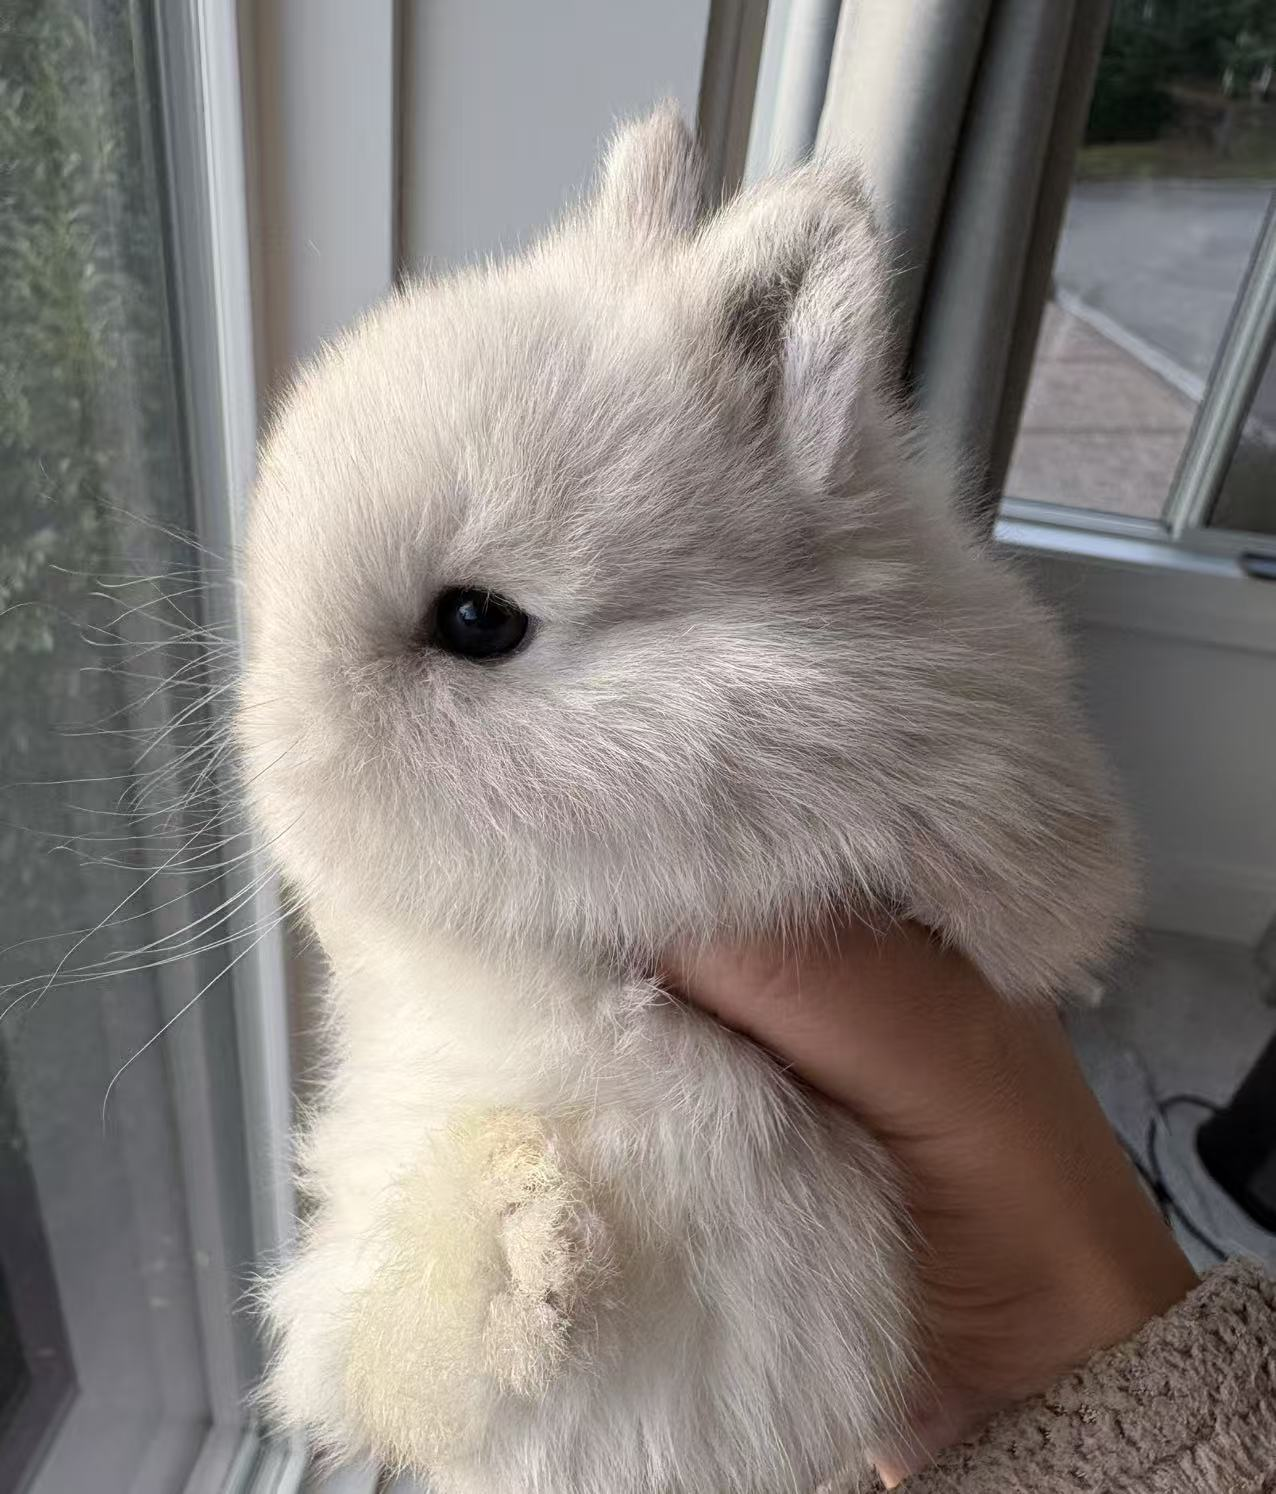
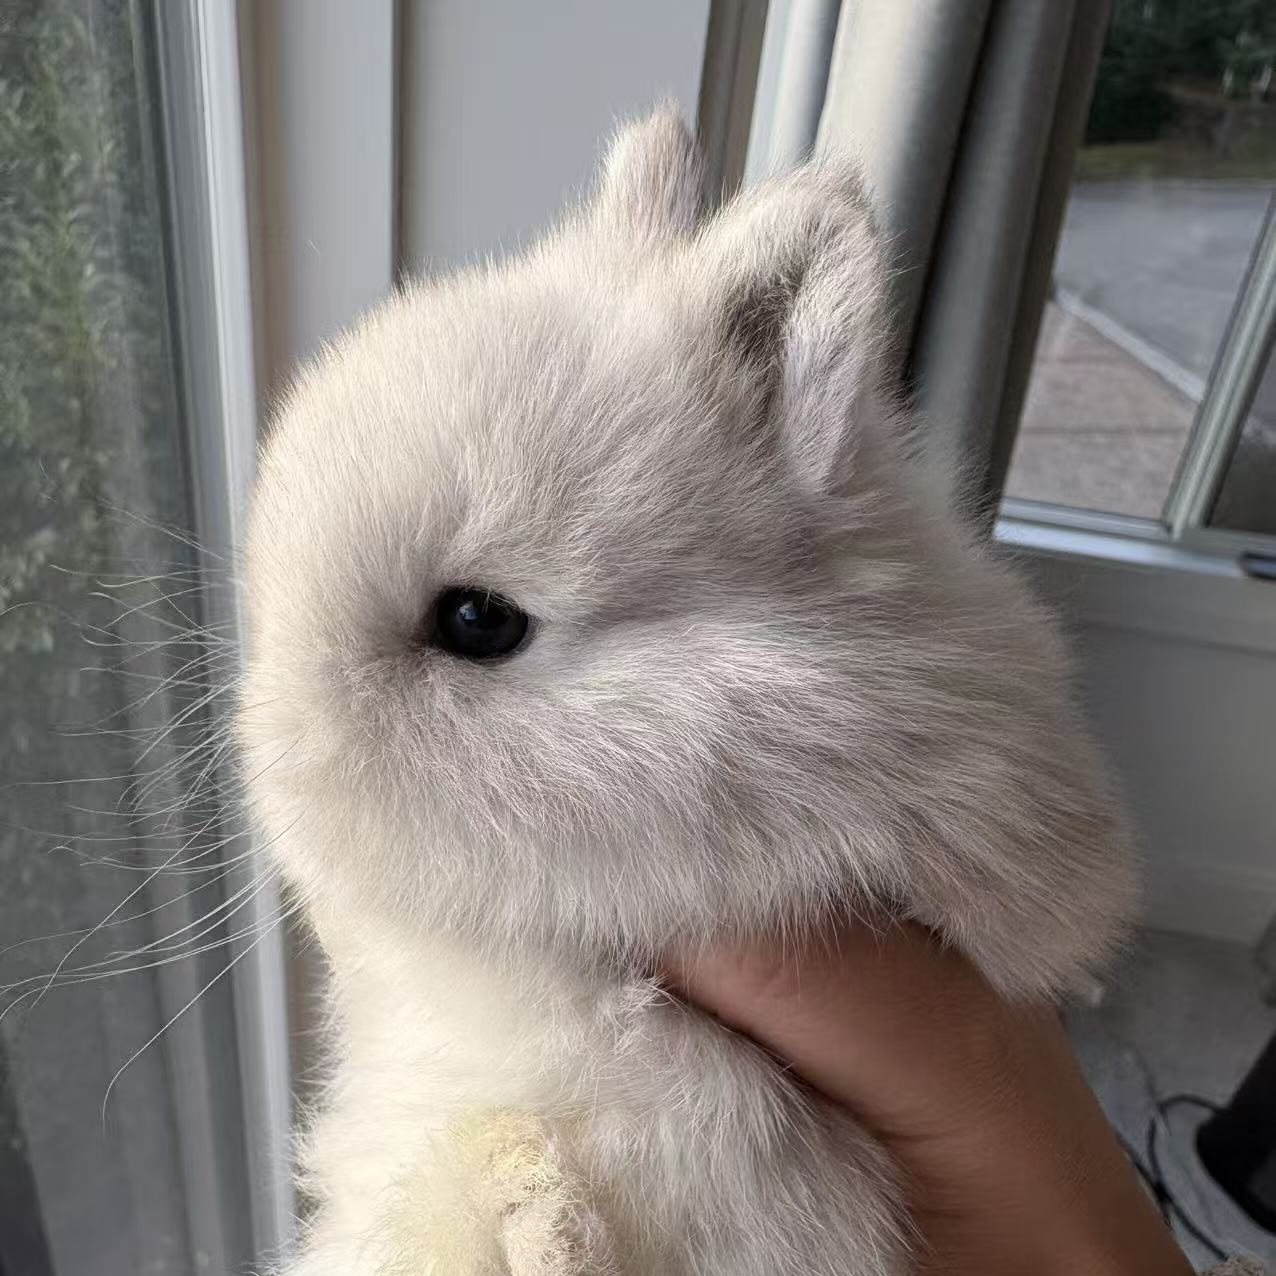
update waitlist policy wording, thank-you page response time, and about images
- Simplify waitlist policy sentence structure
- Remove "Proper structure and type" from breeding focus list
- Update thank-you response time from 24-48 hours to 24 hours
- Add/update about page images (gangbeng, harper_show_pos_outside)

diff --git a/content/join-waiting-list/_index.md b/content/join-waiting-list/_index.md
@@ -5,7 +5,7 @@ description: "Reserve your future Netherland Dwarf bunny by joining the CBA Rabb
 
 ## Waitlist Policy – Effective March 1, 2026
 
-To ensure responsible breeding practices and proper planning of our litters, CBA Rabbitry operates on a waitlist-based breeding system. Beginning March 1, 2026, breedings will only be planned based on confirmed demand from our waitlist.
+To ensure responsible breeding practices and proper planning of our litters, CBA Rabbitry operates on a waitlist-based breeding system, breedings will only be planned based on confirmed demand from our waitlist.
 
 Our goal is to produce healthy, high-quality Netherland Dwarf rabbits while avoiding overbreeding and ensuring every bunny has a committed home.
 
@@ -15,7 +15,7 @@ The waitlist fee is **$49**. We'll send you a payment link after you submit your
 
 ### How to Join
 
-Please use this form, or [contact us](/contact/) to submit your request. 
+Please use this form, or [contact us](/contact/) to submit your request.
 
 ### Waiting Time
 
@@ -28,7 +28,6 @@ At CBA Rabbitry, we focus on producing:
 - Healthy rabbits
 - Strong Netherland Dwarf bloodlines
 - Exceptional temperament
-- Proper structure and type
 
 We appreciate your patience and support in maintaining a responsible and ethical breeding program.
 

diff --git a/content/thank-you/_index.md b/content/thank-you/_index.md
@@ -5,6 +5,6 @@ description: "Your message has been received."
 
 ## Thank You!
 
-Your message has been received. We'll get back to you within 24–48 hours.
+Your message has been received. We'll get back to you within 24 hours.
 
 In the meantime, feel free to browse our [available bunnies](/bunnies-for-adoption/) or follow us on social media for the latest updates!